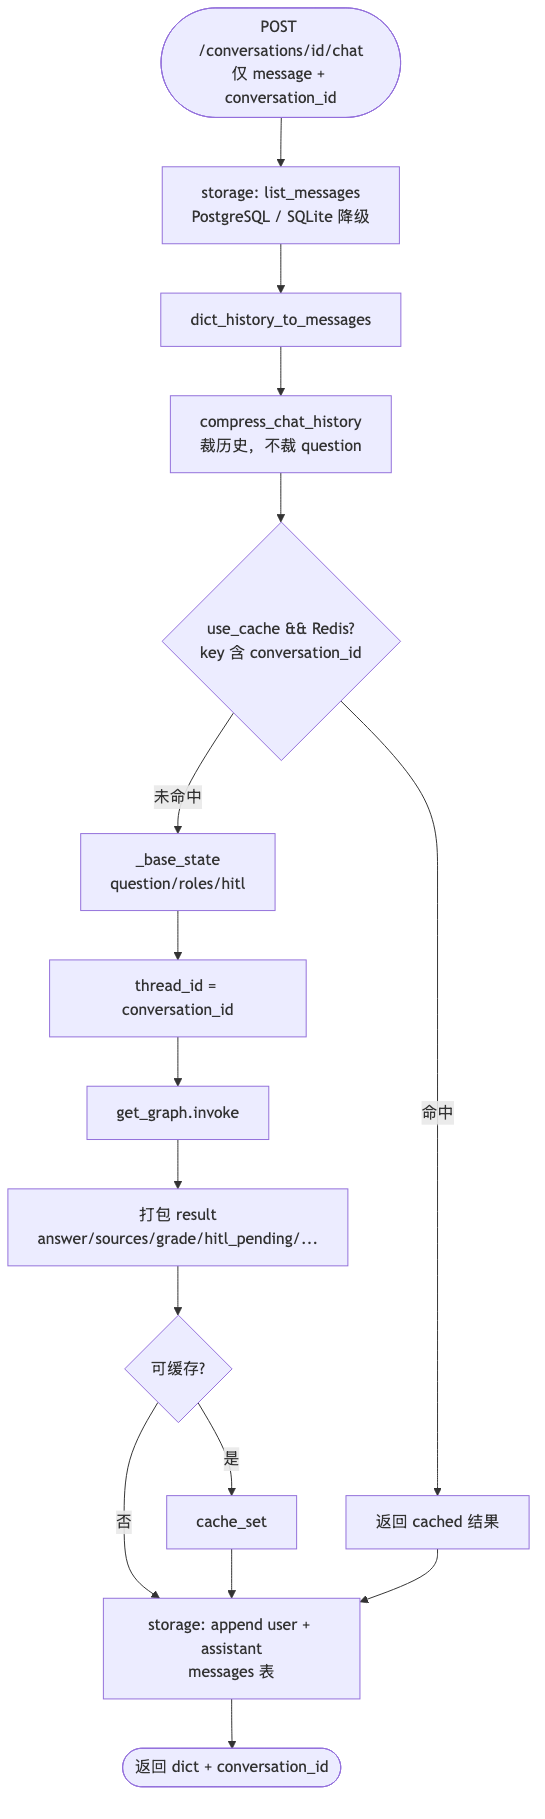
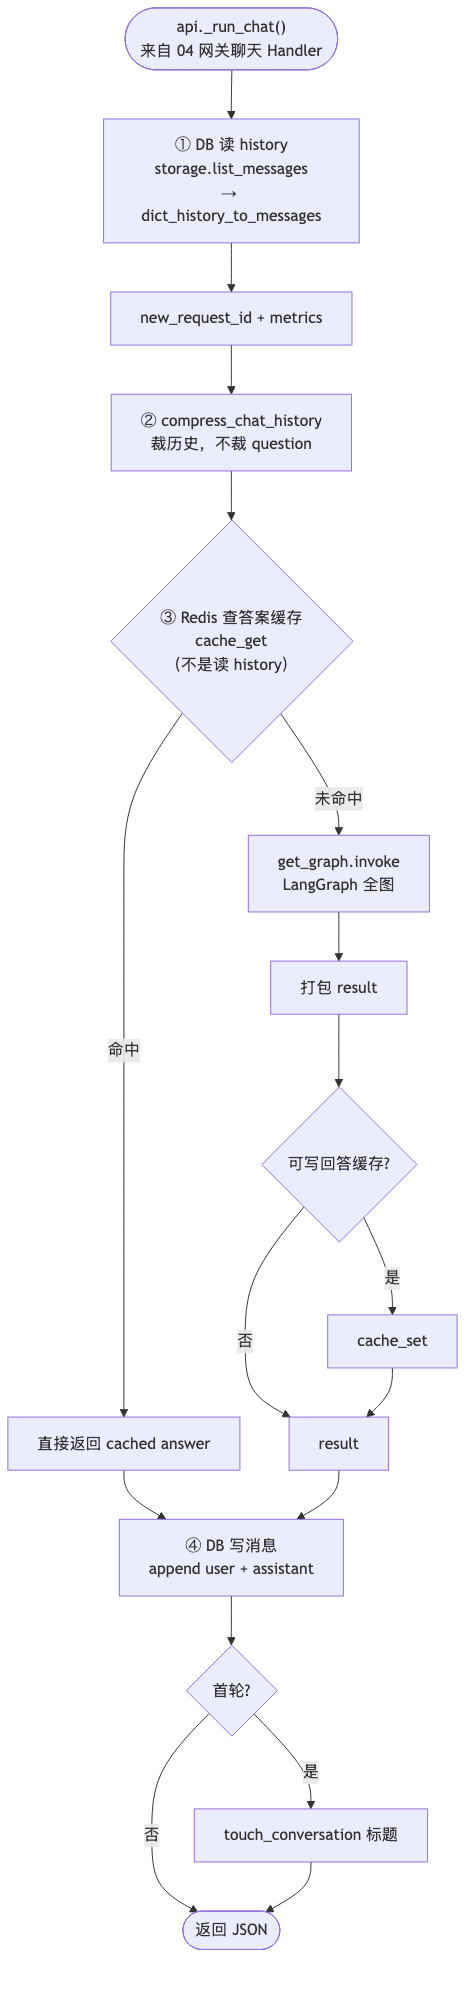
docs(project_00): 更新 HTTP gateway 与同步问答流程图

diff --git a/project_00_rag_agent/docs/architecture.md b/project_00_rag_agent/docs/architecture.md
@@ -254,36 +254,45 @@ flowchart LR
 
 ```mermaid
 flowchart TD
-    REQ([HTTP Request]) --> SKIP{/health /ready<br/>/auth/token?}
+    REQ([HTTP Request]) --> SKIP{/health /ready<br/>/auth/token /metrics?}
     SKIP -->|是| PASS[跳过限流]
-    SKIP -->|否| RL[rate_limit_middleware<br/>Redis/内存计数]
+    SKIP -->|否| RL[rate_limit_middleware]
 
-    RL -->|超限| E429[429 Too Many Requests]
-    RL -->|OK| ROUTE{路由分发}
+    PASS --> ROUTE
+    RL -->|超限| E429[429]
+    RL -->|OK| ROUTE{api.py 路由}
 
-    ROUTE --> AUTH_EP["/auth/token"]
-    ROUTE --> CONV_EP["/conversations<br/>/conversations/id/messages<br/>/conversations/id/chat"]
-    ROUTE --> CHAT_EP["/chat /chat/stream<br/>兼容：自动建 conversation"]
-    ROUTE --> INGEST_EP["/ingest"]
-    ROUTE --> HITL_EP["/hitl/resume"]
-    ROUTE --> OPS["/health /ready /stats /metrics"]
+    ROUTE --> AUTH["/auth/token"]
+    ROUTE --> CHAT["/conversations* /chat*"]
+    ROUTE --> INGEST["/ingest"]
+    ROUTE --> HITL["/hitl/resume"]
+    ROUTE --> OPS_PUB["/health /ready"]
+    ROUTE --> OPS_AUTH["/stats /metrics"]
 
-    CONV_EP --> JWT{Bearer Token?}
-    CHAT_EP --> JWT
-    INGEST_EP --> JWT
-    HITL_EP --> JWT
-    OPS --> JWT2{需鉴权?}
+    AUTH --> H1[login → JWT]
 
-    JWT -->|无效| E401[401]
-    JWT -->|有效| RBAC{角色有 permission?}
-    RBAC -->|否| E403[403]
-    RBAC -->|是| HANDLER[业务 Handler]
+    CHAT --> JWT
+    INGEST --> JWT
+    HITL --> JWT
+    OPS_AUTH --> JWT
 
-    HANDLER --> CHAT_FLOW{聊天类?}
-    CHAT_FLOW -->|是| DB[storage: 读/写 messages]
-    CHAT_FLOW -->|否| RID[new_request_id]
-    DB --> RID
-    RID --> AGENT_CALL[调用 agent.py]
+    OPS_PUB --> H_OPS[health / ready]
+
+    JWT{Bearer + RBAC?}
+    JWT -->|401/403| ERR[拒绝]
+    JWT -->|通过| H2[Handler]
+
+    H2 --> T1["聊天 → 见 07 图"]
+    H2 --> T2[ingest → ingest_files]
+    H2 --> T3[hitl → resume_hitl]
+    H2 --> T4[stats / metrics]
+
+    T1 --> OUT([JSON 响应])
+    T2 --> OUT
+    T3 --> OUT
+    T4 --> OUT
+    H1 --> OUT
+    H_OPS --> OUT
 ```
 
 </details>
@@ -369,24 +378,28 @@ flowchart TD
 
 ```mermaid
 flowchart TD
-    START([POST /conversations/id/chat<br/>仅 message + conversation_id]) --> LOAD[storage: list_messages<br/>PostgreSQL / SQLite 降级]
-    LOAD --> DICT[dict_history_to_messages]
-    DICT --> COMPRESS[compress_chat_history<br/>裁历史，不裁 question]
+    START(["api._run_chat()<br/>来自 04 网关聊天 Handler"]) --> LOAD["① DB 读 history<br/>storage.list_messages<br/>→ dict_history_to_messages"]
+    LOAD --> RID[new_request_id + metrics]
 
-    COMPRESS --> CACHE{use_cache && Redis?<br/>key 含 conversation_id}
-    CACHE -->|命中| RET_CACHED[返回 cached 结果]
-    CACHE -->|未命中| BUILD[_base_state<br/>question/roles/hitl]
-    BUILD --> CONFIG["thread_id = conversation_id"]
-    CONFIG --> INVOKE[get_graph.invoke]
+    RID --> A1["② compress_chat_history<br/>裁历史，不裁 question"]
+    A1 --> A2{"③ Redis 查答案缓存<br/>cache_get<br/>（不是读 history）"}
 
-    INVOKE --> PACK[打包 result<br/>answer/sources/grade/hitl_pending/...]
-    PACK --> CACHE_W{可缓存?}
-    CACHE_W -->|是| CACHE_SET[cache_set]
-    CACHE_W -->|否| PERSIST
-    CACHE_SET --> PERSIST[storage: append user + assistant<br/>messages 表]
-    RET_CACHED --> PERSIST
+    A2 -->|命中| A2H[直接返回 cached answer]
+    A2 -->|未命中| A3[get_graph.invoke<br/>LangGraph 全图]
+    A3 --> A4[打包 result]
+    A4 --> A5{可写回答缓存?}
+    A5 -->|是| A6[cache_set]
+    A5 -->|否| MERGE[result]
+    A6 --> MERGE
 
-    PERSIST --> RETURN([返回 dict + conversation_id])
+    A2H --> SAVE["④ DB 写消息<br/>append user + assistant"]
+    MERGE --> SAVE
+    SAVE --> TIT{首轮?}
+    TIT -->|是| TITLE[touch_conversation 标题]
+    TIT -->|否| RETURN
+    TITLE --> RETURN([返回 JSON])
+
+    %% ②③ 在 agent.ask() 内；①④ 在 api._run_chat() 内
 ```
 
 </details>
